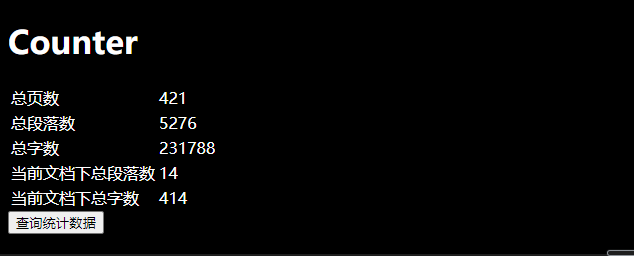
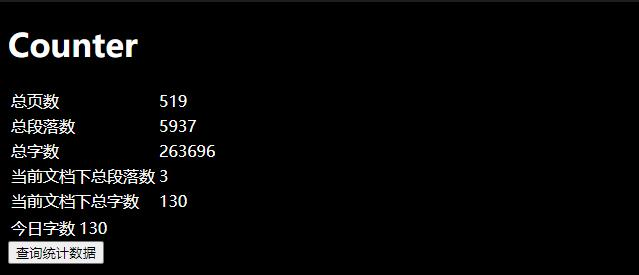
update WordCounter to v0.0.3.20220619

diff --git a/script/count.js b/script/count.js
@@ -3,13 +3,13 @@ import { getBlockByID } from './api.js';
 
 // 绑定事件
 document.getElementById('get_data').addEventListener('click', function () {
+	// 统计页面数量
 	var page_data = count_pages().then((res) => {
-		// 统计页面数量
 		var resLength = res.length;
 		document.getElementById('page_number').innerHTML = resLength;
 	});
+	// 统计块数量和总字数
 	var block_data = count_blocks().then((res) => {
-		// 统计块数量和总字数
 		var resLength = res.length;
 		var count_character = 0;
 		for (var i = 0; i < resLength; i++) {
@@ -21,8 +21,8 @@ document.getElementById('get_data').addEventListener('click', function () {
 		document.getElementById('block_number').innerHTML = resLength;
 		document.getElementById('character_number').innerHTML = count_character;
 	});
+	// 统计当前块数量和字数
 	var present_block_data = count_present_blocks().then((res) => {
-		// 统计当前块数量和字数
 		// console.log(res);
 		var resLength = res.length;
 		var count_character = 0;
@@ -31,6 +31,16 @@ document.getElementById('get_data').addEventListener('click', function () {
 		}
 		document.getElementById('present_block_number').innerHTML = resLength;
 		document.getElementById('present_character_number').innerHTML = count_character;
+	});
+	// 统计今日字数
+	var today_character_data = count_today_character().then((res) => {
+		// console.log(res);
+		var resLength = res.length;
+		var count_character = 0;
+		for (var i = 0; i < resLength; i++) {
+			count_character += res[i].length;
+		}
+		document.getElementById('today_character_number').innerHTML = count_character;
 	});
 });
 
@@ -52,6 +62,28 @@ async function count_present_blocks() {
 	var page_id = self_id.root_id;
 	// console.log(page_id);
 	var sql_sentence = "select * from blocks where type = 'p' and (root_id = '" + page_id + "'" + " or path like '%" + page_id + "%')";
+	const res = await sql(sql_sentence);
+	return res;
+}
+
+// 统计今日字数
+async function count_today_character() {
+	var today = new Date();
+	var year = today.getFullYear();
+	// console.log(year);
+	var month = today.getMonth() + 1;
+	if (month < 10) {
+		month = '0' + month;
+	}
+	// console.log(month);
+	var day = today.getDate();
+	if (day < 10) {
+		day = '0' + day;
+	}
+	// console.log(day);
+	var today_string = year + '' + month + '' + day + '';
+	console.log(today_string);
+	var sql_sentence = "select * from blocks where type = 'p' and updated like '%" + today_string + "%'";
 	const res = await sql(sql_sentence);
 	return res;
 }

diff --git a/index.html b/index.html
@@ -37,6 +37,12 @@
             <td><div id="present_character_number"></div></td>
         </tr>
     </table>
+    <table>
+        <tr>
+            <td id="today_character_number_head">今日字数</td>
+            <td><div id="today_character_number"></div> </td>
+        </tr>
+    </table>
     <button id="get_data">
         查询统计数据
     </button>

diff --git a/index.css b/index.css
@@ -8,7 +8,7 @@
 } */
 @media (prefers-color-scheme: dark) {
 	body {
-		background-color: #000000;
+		background-color: #1e1e1e;
 		color: rgb(255, 255, 255);
 	}
 }

diff --git a/CHANGELOG.md b/CHANGELOG.md
@@ -5,3 +5,5 @@
 ## 0.0.2.20220603
 
 修复了一些 bug
+## 0.0.3.20220619
+增加统计今日字数的功能
